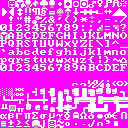
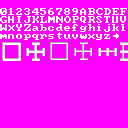
Added menu(WIP)

diff --git a/data/ASCII.tsx b/data/ASCII.tsx
@@ -1,0 +1,9 @@
+<?xml version="1.0" encoding="UTF-8"?>
+<tileset version="1.2" tiledversion="1.2.1" name="ASCII" tilewidth="8" tileheight="8" tilecount="256" columns="16">
+ <image source="bg_ascii.png" trans="ff00ff" width="128" height="128"/>
+ <terraintypes>
+  <terrain name="Double Box" tile="201"/>
+ </terraintypes>
+ <tile id="201" terrain="0,0,0,0"/>
+ <tile id="205" terrain=",,0,0"/>
+</tileset>
